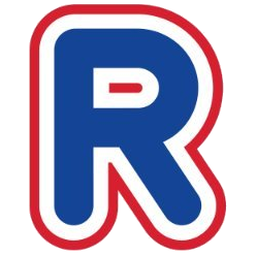
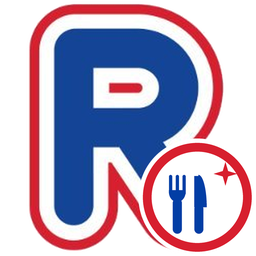
Nye AI-madplan-logoer: kniv og gaffel med gnist på R'et og mærkatet AI-madplan under REMA 1000
Ordmærket i værktøjslinjen er gjort højere, så REMA 1000 har samme størrelse som før
med mærkatet under. Version 0.3.16.

Changed region(s): [[0.5312, 0.5312, 1.0, 1.0]]

diff --git a/custom_components/rema1000/frontend/rema1000-panel.js b/custom_components/rema1000/frontend/rema1000-panel.js
@@ -1266,7 +1266,7 @@ const STYLE = `
     padding: var(--rema-safe-top, 0px) 12px 0;
     background: var(--app-header-background-color, var(--card-background-color)); color: var(--app-header-text-color, inherit);
     border-bottom: 1px solid var(--divider-color); position: sticky; top: 0; z-index: 3; }
-  .logo { height: 26px; }
+  .logo { height: min(44px, calc(var(--header-height, 56px) - 8px)); }
   .spacer { flex: 1; }
   .tabs { display: flex; gap: 4px; overflow-x: auto; padding: 8px 12px 0; background: var(--rema-solid-card);
     border-bottom: 1px solid var(--divider-color); position: sticky; top: calc(var(--header-height, 56px) + var(--rema-safe-top, 0px)); z-index: 2; }
